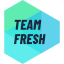
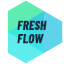
name changed to freshflow

Changed region(s): [[0.0625, 0.0, 1.0, 1.0]]

diff --git a/README.md b/README.md
@@ -1,3 +1,3 @@
-# Team Fresh's Website
+# FreshFlow's Website
 
-https://teamfresh.tech
+https://freshflow.ai
